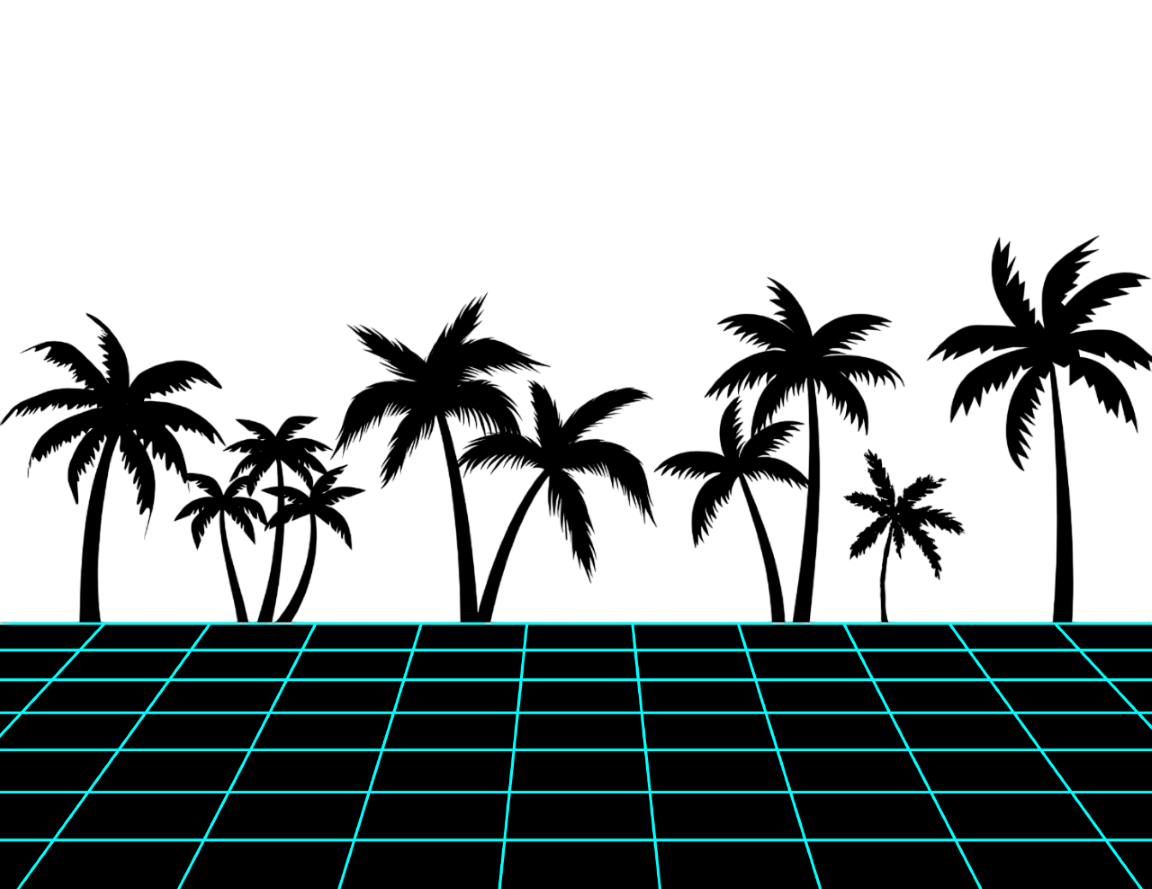
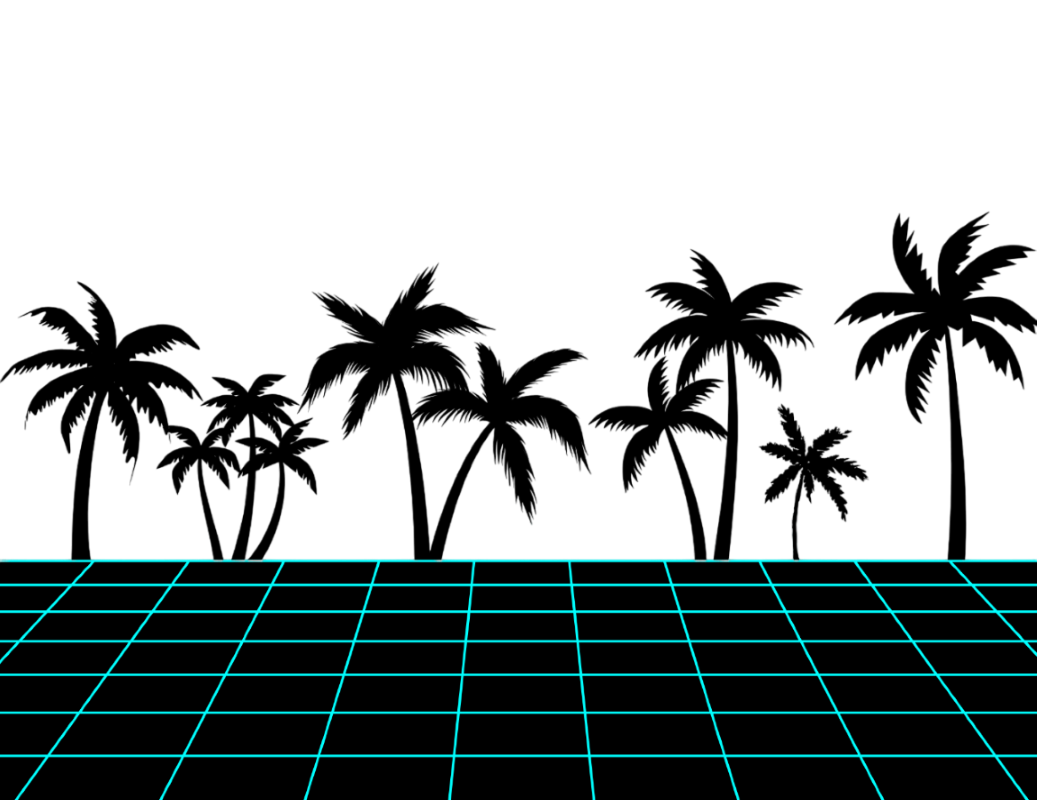
optimizations
shrunk images, improved some sizing issues, converted some PX values to EM, made more adjustments to account for mobile devices

Changed region(s): [[0.4012, 0.5, 0.432, 0.5312]]

diff --git a/about.html b/about.html
@@ -3,31 +3,35 @@
 <html>
     <head>
         <meta charset="UTF-8">
-        <title>Sam Deniz's Portfolio</title>
+        <title>About Me</title>
         <link rel="stylesheet" href="funx/Styles.css">
         <script src="funx/Scripts.js"></script>
     </head>
     <body style="background-image: url('/images/AboutBG.png'), linear-gradient(#8c1eff, #f222ff, orange)">
-        <div class="subBody">
+        <div class="titleArea">
             <h1 class="title">About Me</h1>
-            <div class="noImage popUp">
-                <p>I am a web designer and developer based in Fairport, New York. In 2023, I graduated from Rochester Institute of Technology
-                    with a Bachelor's of Science in New Media Interactive Development, which encompasses website design/development, mobile
-                    development, alternate interfaces, and more. While I was there, I found myself most at ease developing websites, with a
-                    particular fondness for HTML, CSS, and JavaScript.<br><br>
-                    I believe that any organization with an Internet presence, including businesses and non-profits, should have a visually
-                    appealing and easily accessible website. Many people find out about companies thanks to the Internet, and a poorly-designed
-                    website can cost you a potential interaction. With my knowledge of website design and development, I can make sure your
-                    website never causes you to miss out.</p>
-            </div>
-            <div class="noImage popUp">
-                <h1 class="subtitle">What I Can Do</h1><br>
-                <p><b>Skills: </b>Front-end design, responsive design, UX/UI, graphic design, documentation,
-                testing, communication</p>
-                <p><b>Programming Languages: </b>HTML, CSS, JavaScript</p>
-                <p><b>Tools and Platforms: </b>Microsoft VS Code, Github, Canva, Adobe Photoshop, Shopify, Squarespace</p>
-            </div>
-            <button onclick="changePage('/')">Return to Main Page</button>
         </div>
+        <div class="subBody">
+            <div class="flexBox">
+                <div class="noImage popUp half">
+                    <p>I am a web designer and developer based in Fairport, New York. In 2023, I graduated from Rochester Institute of Technology
+                        with a Bachelor's of Science in New Media Interactive Development, which encompasses website design/development, mobile
+                        development, alternate interfaces, and more. While I was there, I found myself most at ease developing websites, with a
+                        particular fondness for HTML, CSS, and JavaScript.<br><br>
+                        I believe that any organization with an Internet presence, including businesses and non-profits, should have a visually
+                        appealing and easily accessible website. Many people find out about companies thanks to the Internet, and a poorly-designed
+                        website can cost you a potential interaction. With my knowledge of website design and development, I can make sure your
+                        website never causes you to miss out.</p>
+                </div>
+                <div class="noImage popUp half">
+                    <h1 class="subtitle">What I Can Do</h1><br>
+                    <p><b>Skills: </b>Front-end design, responsive design, UX/UI, graphic design, documentation,
+                    testing, communication</p>
+                    <p><b>Programming Languages: </b>HTML, CSS, JavaScript</p>
+                    <p><b>Tools and Platforms: </b>Microsoft VS Code, Github, Canva, Adobe Photoshop, Shopify, Squarespace</p>
+                </div>
+            </div>
+        </div>
+        <button onclick="changePage('/')">Return to Main Page</button>
     </body>
 </html>

diff --git a/funx/Styles.css b/funx/Styles.css
@@ -29,11 +29,17 @@
 }
 *{/*font used for regular text*/
   font-family: standardFont;
-  font-size: 14px;
+  font-size: 0.95em;
   color:whitesmoke;
 }
+.name{
+  font-size: 6em;
+}
 .title {
-  font-size: 80px;
+  font-size: 3em;
+}
+.subtitle {
+  font-size: 1.5em;
 }
 .glitch{
   font-family: nameFont;
@@ -41,12 +47,9 @@
   text-shadow:0.02em -0.02em 0 #f022ffaa, -0.02em 0.02em 0 #00ffffaa;
   animation: glitchy 2000ms infinite;
 }
-.subtitle {
-  font-size: 20px;
-}
 body {/*the page itself*/
   margin: 0;
-  padding:20px 30px;
+  padding: 25px;
   text-align: center;
   background-color: black;
   background-repeat: no-repeat;
@@ -57,13 +60,17 @@ body {/*the page itself*/
 .subBody{/*the contents of subpages*/
   width: 90%;
   margin: auto;
+  min-height: 55vh;
+  display: flex;
+  flex-direction: column;
+  justify-content: center;
 }
 button{
   border: 2px;
-  padding: 20px 10px;
+  padding: 1.5em;
   border-radius: 20px;
   display: inline-block;
-  margin: 15px;
+  margin: 1em;
   cursor: pointer;
   background-color: cyan;
   color:black;
@@ -74,54 +81,58 @@ button{
 button:hover{
   background-color: #00ccff;
 }
+.titleArea{
+  min-height:15vh;
+}
 .popUp{/*used for styling each div like a Windows XP pop-up, and to make them easier to read*/
   background-color: beige;
   border-radius: 5px;
   border: solid blue;
   border-width: 30px 4px 4px 4px;
-  margin: 10px;
-  animation: popIn 0.4s;
+  margin: 1em;
+  animation: popIn 0.8s;
   *{
     color:black;
   }
   button{
     border: solid gray;
     border-width: 1px;
-    padding: 10px 5px;
+    padding: 1em;
     border-radius: 1px;
     background-color: beige;
-    min-width: 30%;
+    min-width: 40%;
   }
-  button:hover{
+  button:hover, button:active{
     background-color: rgba(0,0,0,0.1);
   }
 }
 .noImage{/*adds padding to pop-ups that don't have an image*/
-  padding:20px 10px;
+  padding:10px 20px;
 }
 .flexBox{
   display: flex;
   align-items: center;
   justify-content: center;
-  padding: 15px 0px;
 }
 .half{
   width: 45%;
-  margin:20px;
-  img{/*should be 16 x 9*/
+  margin: 1em 3em;
+  img{
     width:100%;
   }
 }
 .third{
   width: 30%;
-  button{
-    min-width: 40%;
-  }
 }
-@media only screen and (max-width:600px){
+@media only screen and (max-width:1000px){
+  .name{
+    font-size: 4em;
+  }
+  .subtitle{
+    font-size: 1.25em;
+  }
   .subBody{
     width: 100%;
-    margin: auto;
   }
   button{
     min-width:75%;
@@ -130,7 +141,8 @@ button:hover{
     min-width: 40%;
   }
   .flexBox{
-    width: 100%;
+    width: 90%;
+    margin: auto;
     flex-direction: column;
   }
   .half, .third{

diff --git a/pastwork.html b/pastwork.html
@@ -3,16 +3,18 @@
 <html>
     <head>
         <meta charset="UTF-8">
-        <title>Sam Deniz's Portfolio</title>
+        <title>Past Projects</title>
         <link rel="stylesheet" href="funx/Styles.css">
         <script src="funx/Scripts.js"></script>
     </head>
     <body style="background-image: url('/images/WorkBG.png'), linear-gradient(#b42781, #872738, #73157d)">
-        <div class="subBody">
+        <div class="titleArea">
             <h1 class="title">Past Projects</h1>
+        </div>
+        <div class="subBody">
             <div class="flexBox">
                 <div class="half popUp">
-                    <img src="images/JayCSite.jpg">
+                    <img src="images/JayCSS.jpg">
                 </div>
                 <div class="half noImage popUp">
                     <h1 class="subtitle">Jay C Auto Repair</h1><br>
@@ -24,7 +26,7 @@
             </div>
             <div class="flexBox">
                 <div class="half popUp">
-                    <img src="images/AgapeSite.jpg">
+                    <img src="images/AgapeSS.jpg">
                 </div>
                 <div class="half noImage popUp">
                     <h1 class="subtitle">Agape Haven of Abundance</h1><br>
@@ -36,7 +38,7 @@
             </div>
             <div class="flexBox">
                 <div class="half popUp">
-                    <img src="images/XroadsSite.jpg">
+                    <img src="images/XroadsSS.jpg">
                 </div>
                 <div class="half noImage popUp">
                     <h1 class="subtitle">Crossroads of Caring</h1><br>
@@ -46,7 +48,7 @@
                     <button onclick="changePage('https://www.crossroadsofcaring.org/')">View Website</button>
                 </div>
             </div>
-            <button onclick="changePage('/')">Return to Main Page</button>
         </div>
+        <button onclick="changePage('/')">Return to Main Page</button>
     </body>
 </html>

diff --git a/index.html b/index.html
@@ -8,8 +8,8 @@
         <script src="funx/Scripts.js"></script>
     </head>
     <body style="background-image: url('/images/HomeBG.png'), linear-gradient(black,black,hotpink)">
-        <div id="name">
-            <h1 class="title glitch">Samuel Deniz</h1>
+        <div class="titleArea">
+            <h1 class="name glitch">Samuel Deniz</h1>
             <p class="subtitle">A web designer worth your trust</p>
         </div>
         <div class="flexBox">
@@ -20,12 +20,12 @@
             </div>
             <div class="third noImage popUp">
                 <h1 class="subtitle">Past Projects</h1><br>
-                <p>View the many websites I've lent my talents to and see how you could benefit from my help.</p>
+                <p>View some of my previous work and see what I can bring to the table.</p>
                 <button onclick="changePage('pastwork.html')">View Work</button>
             </div>
             <div class="third noImage popUp">
                 <h1 class="subtitle">Contact Me</h1><br>
-                <p>Please contact me if you'd like my services.</p>
+                <p>If you would like to work with me, please reach me through these contacts.</p>
                 <button onclick="changePage('contact.html')">Learn More</button>
             </div>
         </div>

diff --git a/contact.html b/contact.html
@@ -3,13 +3,15 @@
 <html>
     <head>
         <meta charset="UTF-8">
-        <title>Sam Deniz's Portfolio</title>
+        <title>Contact Me</title>
         <link rel="stylesheet" href="funx/Styles.css">
         <script src="funx/Scripts.js"></script>
     </head>
     <body style="background-image: url('/images/ContactBG.png'), linear-gradient(#05ffa1, #05ffa1, #c967ff, #c967ff)">
-        <div class="subBody">
+        <div class="titleArea">
             <h1 class="title">Contact Me</h1>
+        </div>
+        <div class="subBody">
             <div class="flexBox">
                 <div class="half noImage popUp">
                     <h1 class="subtitle">Get Ahold of Me</h1><br>
@@ -22,7 +24,7 @@
                     <button onclick="changePage('https://profile.indeed.com/p/samd-7eral36')">Indeed</button>
                 </div>
             </div>
-            <button onclick="changePage('/')">Return to Main Page</button>
         </div>
+        <button onclick="changePage('/')">Return to Main Page</button>
     </body>
 </html>
